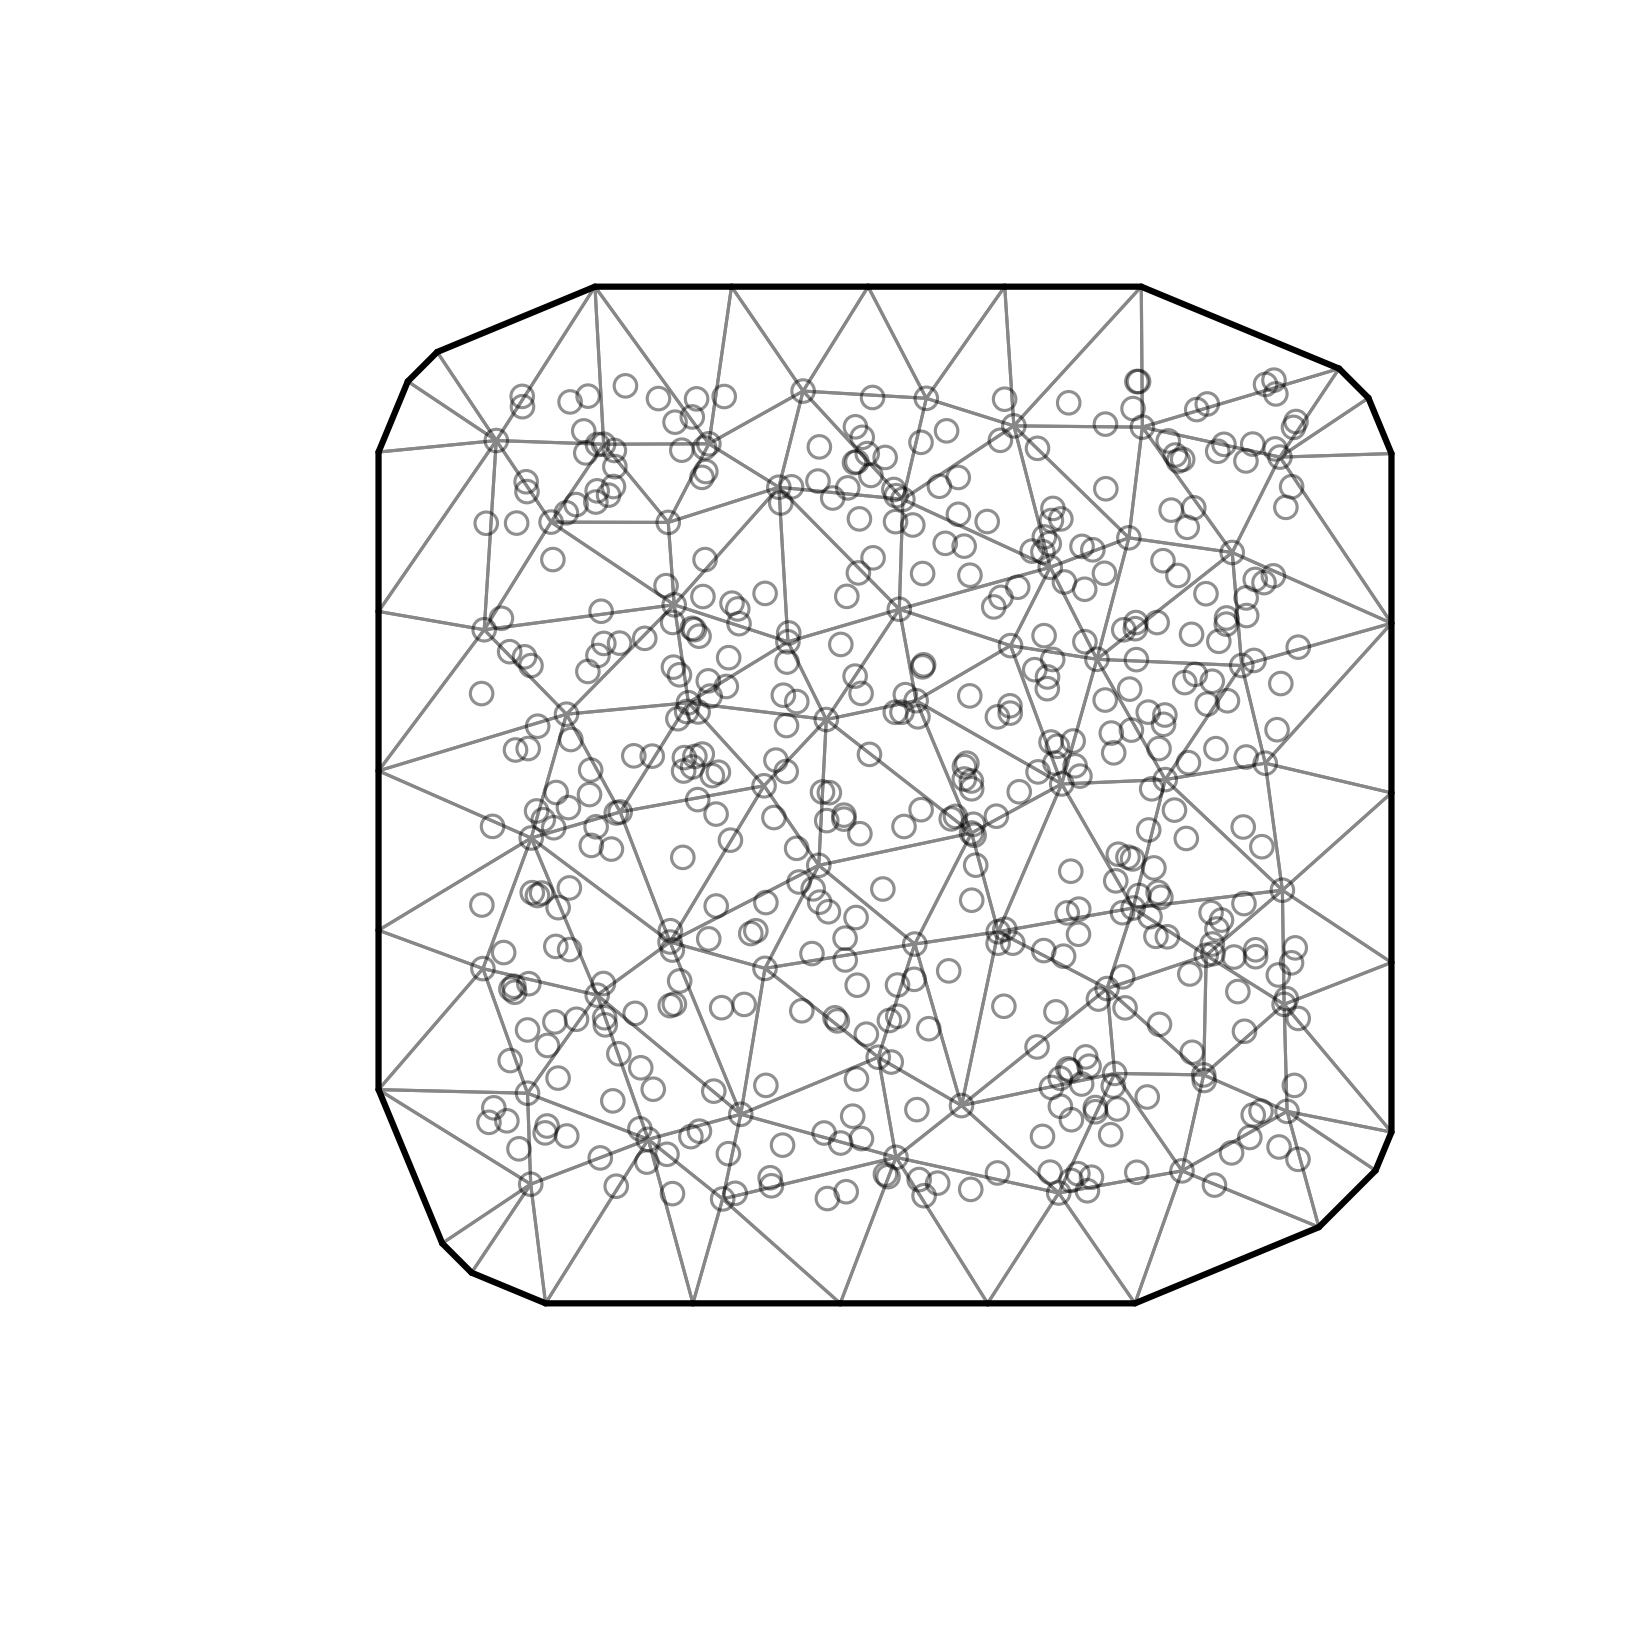
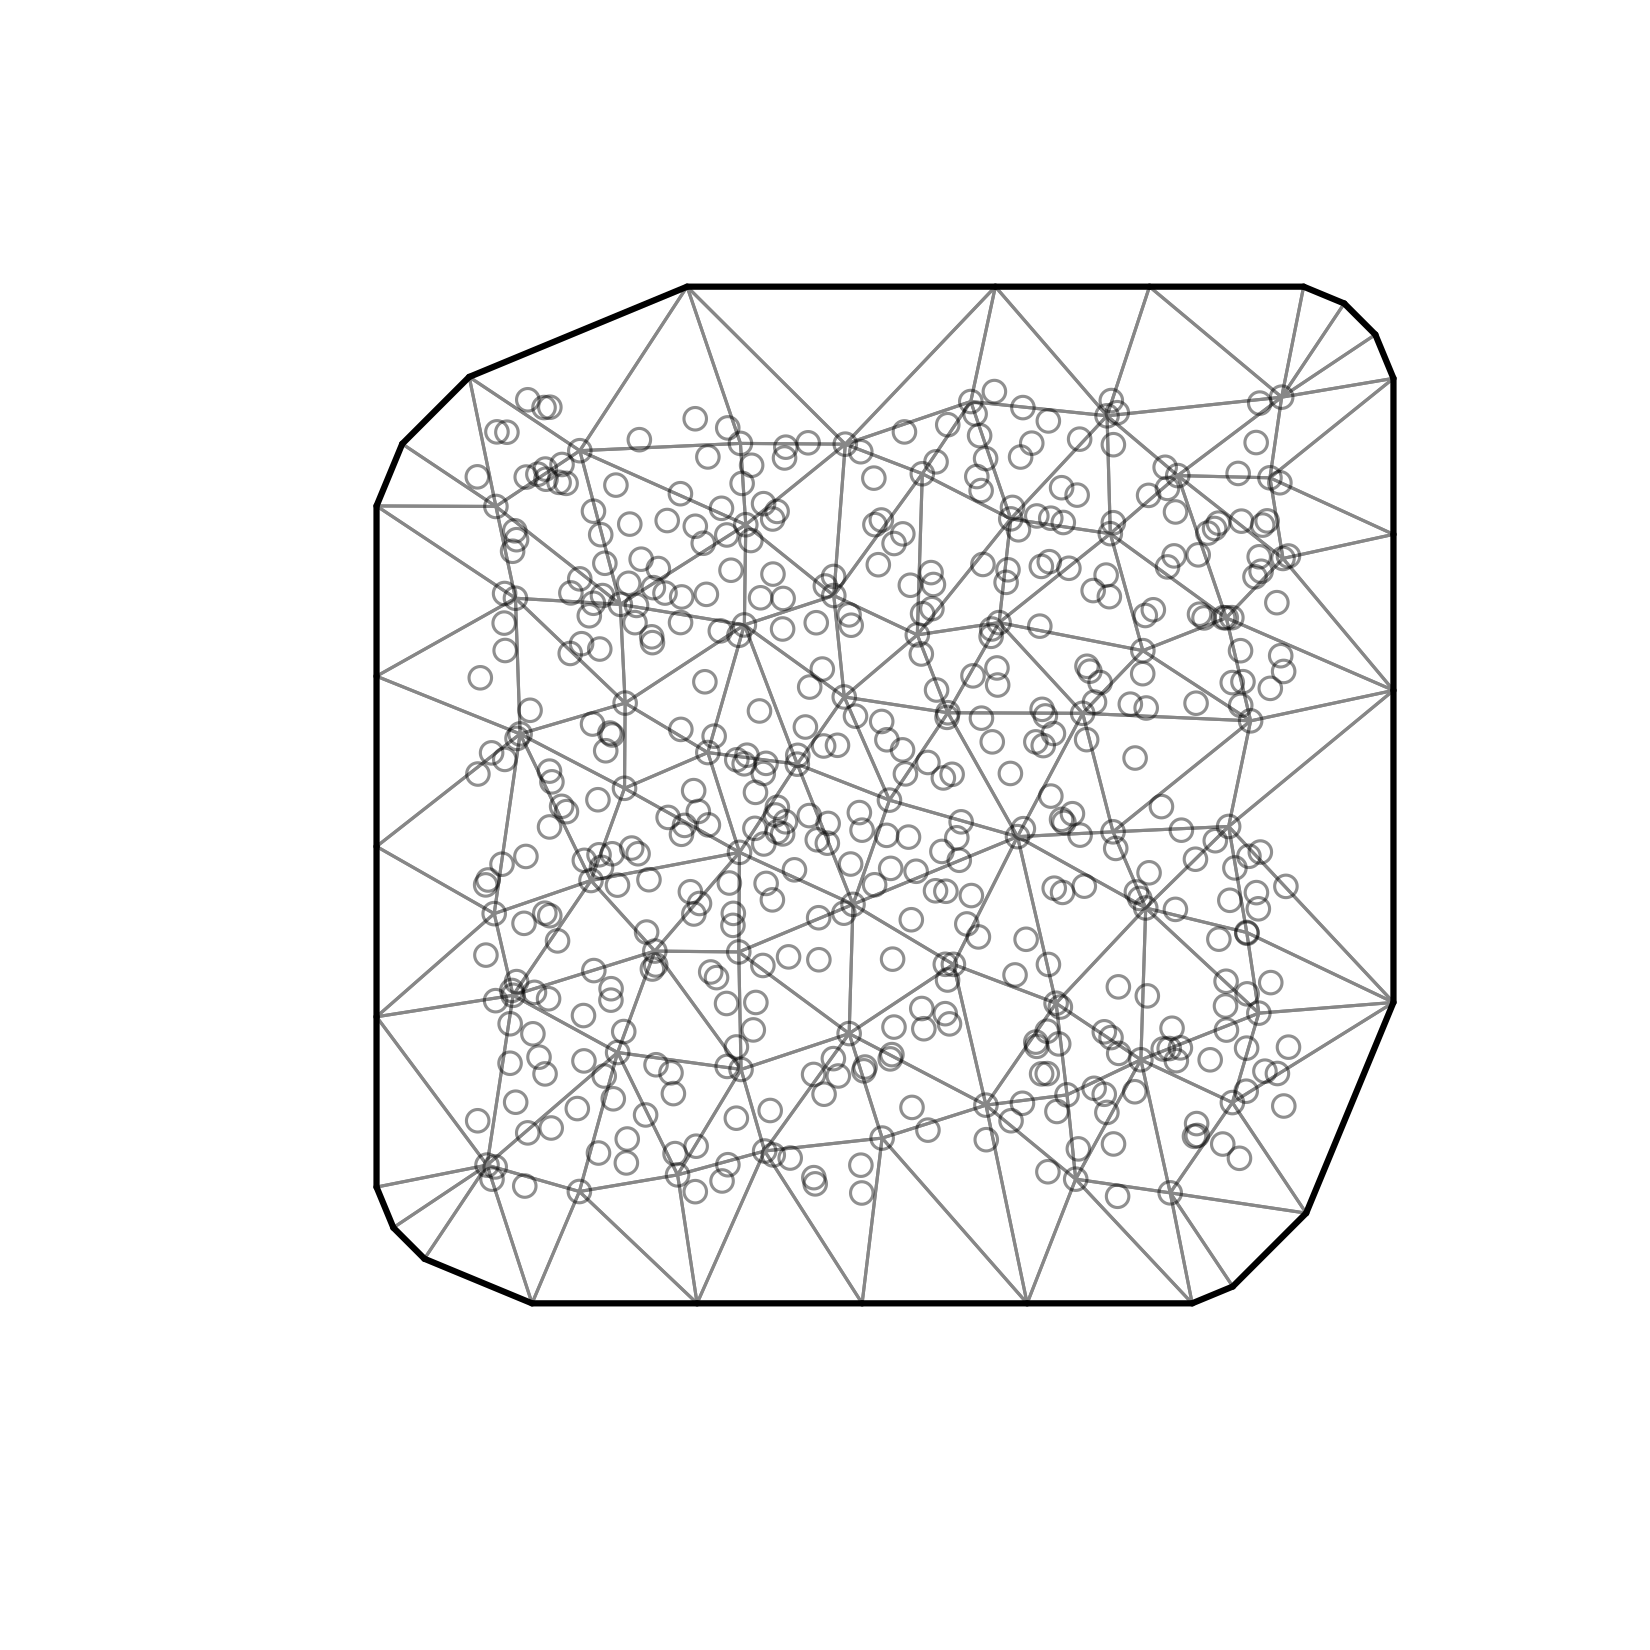
manual building

Changed region(s): [[0.2164, 0.1545, 0.8655, 0.8036]]

diff --git a/noaa-psaw-2022/02-intro-sdmTMB.html b/noaa-psaw-2022/02-intro-sdmTMB.html
@@ -3,8 +3,8 @@
   <head>
     <title>Introduction to sdmTMB</title>
     <meta charset="utf-8" />
+    <meta name="author" content="" />
     <meta name="date" content="2022-03-02" />
-    <script src="libs/header-attrs-2.12/header-attrs.js"></script>
     <link rel="stylesheet" href="xaringan-themer.css" type="text/css" />
     <link rel="stylesheet" href="theme.css" type="text/css" />
   </head>
@@ -14,7 +14,6 @@ class: center, middle, inverse, title-slide
 
 # Introduction to sdmTMB
 ## NOAA PSAW Seminar Series
-### 
 ### March 2, 2022
 
 ---
@@ -188,7 +187,7 @@ Size of mesh has the single largest impact on fitting speed
 d &lt;- data.frame(x = runif(500), y = runif(500))
 mesh &lt;- make_mesh(d, xy_cols = c("x", "y"), cutoff = 0.1)
 mesh$mesh$n
-#&gt; [1] 86
+#&gt; [1] 87
 plot(mesh)
 ```
 
@@ -484,7 +483,6 @@ Covered in examples in next slides.
 * `tidy()`: `?tidy.sdmTMB`
 * `get_index()`
 *  `...`
-
     </textarea>
 <style data-target="print-only">@media screen {.remark-slide-container{display:block;}.remark-slide-scaler{box-shadow:none;}}</style>
 <script src="https://remarkjs.com/downloads/remark-latest.min.js"></script>

diff --git a/noaa-psaw-2022/07-time-varying.html b/noaa-psaw-2022/07-time-varying.html
@@ -3,8 +3,8 @@
   <head>
     <title>Time-varying coefficients with sdmTMB</title>
     <meta charset="utf-8" />
+    <meta name="author" content="" />
     <meta name="date" content="2022-03-09" />
-    <script src="libs/header-attrs-2.12/header-attrs.js"></script>
     <link rel="stylesheet" href="xaringan-themer.css" type="text/css" />
     <link rel="stylesheet" href="theme.css" type="text/css" />
   </head>
@@ -14,7 +14,6 @@ class: center, middle, inverse, title-slide
 
 # Time-varying coefficients with sdmTMB
 ## NOAA PSAW Seminar Series
-### 
 ### March 9, 2022
 
 ---
